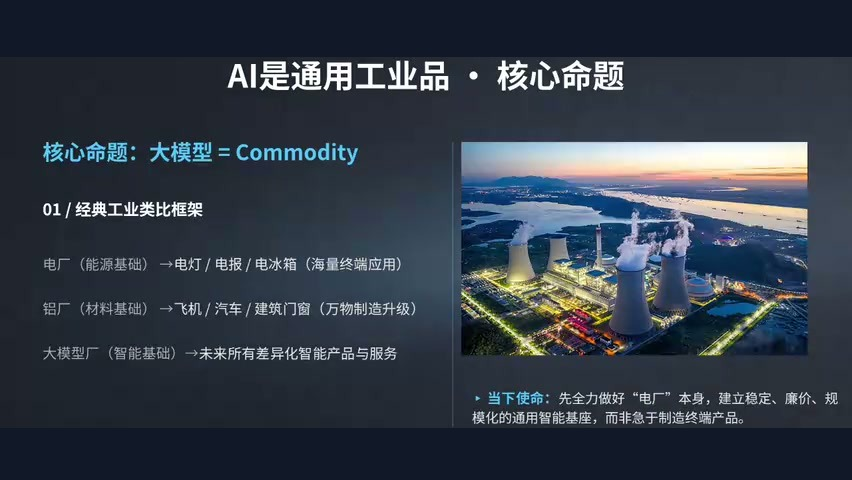
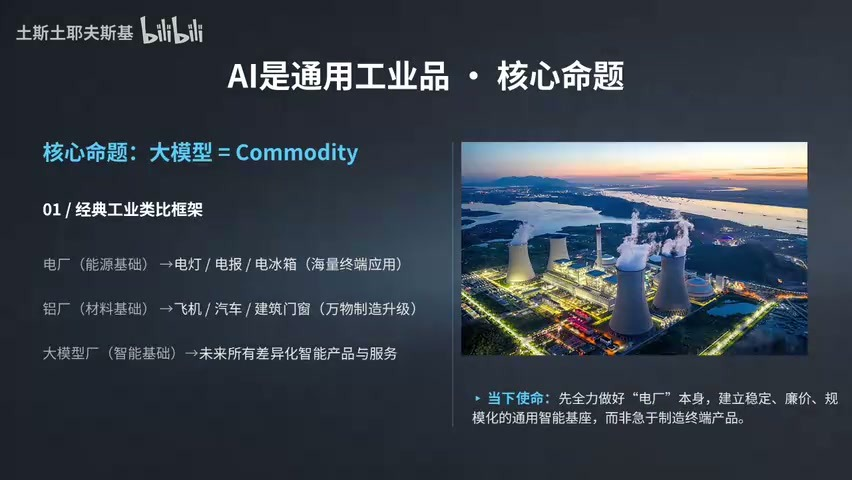
Fix AI commodity article PPT image completeness

Changed region(s): [[0.6408, 0.0, 1.0, 0.125], [0.0, 0.0312, 0.2441, 0.0938], [0.946, 0.875, 0.9765, 0.9375]]

diff --git a/2026/ai-as-commodity-deepseek-cost-efficiency-power-plant-investment/index.html b/2026/ai-as-commodity-deepseek-cost-efficiency-power-plant-investment/index.html
@@ -21,20 +21,20 @@
 <p>AI 大模型的投资框架，正在从“互联网超级应用”切换到“通用工业品”。这个判断会改变很多问题的答案：真正重要的不只是模型榜单、用户规模、产品热度，而是谁能以更低成本、更高效率、更快迭代速度，稳定生产出可被千行百业调用的智能能力。</p>
 <p>如果把 AI 尤其是基础大模型理解为 Commodity，也就是通用工业品，那么它更像电、铝、钢、算力，而不是微信、淘宝或短视频平台。电厂和铝厂不靠用户粘性垄断利润，靠的是规模、成本、效率、良率、供应链和长期工程能力。AI 大模型最终也会越来越接近这种逻辑：产品高度同质化，客户迁移成本低，品牌溢价有限，价格和质量才是企业采购时真正敏感的变量。</p>
 <p>这一点对投资尤其关键。大模型当然会改变世界，但改变世界不等于产业链上的每一个环节都能获得超额利润。基础模型可能是 AI 时代的电厂，承担极大的资本开支、技术迭代和价格竞争；真正拥有高利润弹性的机会，反而可能出现在更上层的应用、行业重构、流程再造和智能化产品中。</p>
-<figure class="article-figure"><img src="/images/posts/ai-as-commodity-deepseek-cost-efficiency-power-plant-investment/slide-01.jpg" alt="总命题：AI=Commodity，像投资电厂一样投资 AI"><figcaption>总命题：AI=Commodity，像投资电厂一样投资 AI</figcaption></figure>
+<figure class="article-figure"><img src="/images/posts/ai-as-commodity-deepseek-cost-efficiency-power-plant-investment/slide-01.jpg?v=20260725-full" alt="总命题：AI=Commodity，像投资电厂一样投资 AI"><figcaption>总命题：AI=Commodity，像投资电厂一样投资 AI</figcaption></figure>
 
 <h2 id="agi-route">AGI 路线：不是神话，而是生产力闭环</h2>
 <p>理解 AI 的工业品属性，必须先重新理解 AGI。AGI 不需要被想象成全知全能、像神一样的存在。更务实的定义是：AI 能够形成从感知、认知到执行的完整闭环，既能在数字世界里处理信息，也能通过工具、系统、机器人或实体设备进入物理世界，持续完成任务、积累经验并改进自身。</p>
 <p>沿着这条路线，AI 的演进并不是一步到位，而是分阶段推进。第一步是思维链能力，让模型具备更强的推理过程；第二步是 Agentic 行动能力，让 AI 不只是回答问题，而是能够调用工具、执行步骤、完成任务；第三步是持续学习和经验积累，让系统不只依赖一次性训练，而能从反馈中沉淀能力；第四步是 AI 加速 AI 研发，通过自动化代码、实验、架构搜索和调参提升迭代速度；最终才是具身智能，让 AI 进入真实世界，拥有稳定执行能力。</p>
 <p>这个路线图的重点不在于“万能智能”的宏大叙事，而在于生产力能否自闭环。只要 AI 能够独立完成感知、思考、规划、执行、反馈和再学习，它就已经具备非常强的工业价值。企业真正购买的不是“智能的神秘感”，而是可度量、可复制、可接入业务流程的生产能力。</p>
-<figure class="article-figure"><img src="/images/posts/ai-as-commodity-deepseek-cost-efficiency-power-plant-investment/slide-03.jpg" alt="AGI 演进路线：从思维链、Agentic 到持续学习和具身智能"><figcaption>AGI 演进路线：从思维链、Agentic 到持续学习和具身智能</figcaption></figure>
+<figure class="article-figure"><img src="/images/posts/ai-as-commodity-deepseek-cost-efficiency-power-plant-investment/slide-03.jpg?v=20260725-full" alt="AGI 演进路线：从思维链、Agentic 到持续学习和具身智能"><figcaption>AGI 演进路线：从思维链、Agentic 到持续学习和具身智能</figcaption></figure>
 
 <h2 id="commodity-definition">大模型为什么是通用工业品</h2>
 <p>通用工业品有几个典型特征：高度标准化、可批量复制、质量可以比较、价格高度敏感、品牌溢价有限、客户转换成本低。AI 大模型正在越来越符合这些特征。</p>
 <p>以铝为例，中国铝业、俄铝、美国铝业生产的铝，本质上不会因为品牌不同就变成完全不同的东西。客户关心的是成分、质量、交付、价格和适配场景，而不是过去用了谁家的铝。电也一样，用户不会因为某家电厂的品牌故事而支付持续高溢价，只要质量稳定、价格更低、供给可靠，采购逻辑就会非常直接。</p>
 <p>AI Token 也在走向类似状态。企业客户调用模型，不是为了表达品牌忠诚，而是为了完成客服、代码、检索、办公、设计、数据分析、研发辅助、销售支持等实际任务。如果两个模型在某个场景里能力接近，一个成本只有另一个的一半，迁移成本又不高，那么理性客户很可能迅速转向更低成本的方案。</p>
 <p>这与移动互联网时代完全不同。微信、淘宝这类平台积累的是用户关系、社交网络、交易习惯和生态闭环，一旦形成强网络效应，新进入者很难替代。但大模型 API 的客户关系更弱，用户粘性更低，模型能力更容易被横向比较，价格也更容易透明化。只要底层能力差距收敛，成本就会成为决定性变量。</p>
-<figure class="article-figure"><img src="/images/posts/ai-as-commodity-deepseek-cost-efficiency-power-plant-investment/slide-05.jpg" alt="核心命题：大模型正在成为可批量复制的通用工业品"><figcaption>核心命题：大模型正在成为可批量复制的通用工业品</figcaption></figure>
+<figure class="article-figure"><img src="/images/posts/ai-as-commodity-deepseek-cost-efficiency-power-plant-investment/slide-05.jpg?v=20260725-full" alt="核心命题：大模型正在成为可批量复制的通用工业品"><figcaption>核心命题：大模型正在成为可批量复制的通用工业品</figcaption></figure>
 
 <h2 id="internet-vs-industrial">不能再用互联网超级 App 逻辑看基础模型</h2>
 <p>很多 AI 投资讨论仍沿用上一代互联网叙事：先抢用户，再做生态，最后形成赢家通吃。这套逻辑在移动互联网时代成立，因为平台控制了入口、关系链、交易场景和用户习惯。但基础大模型不是天然的超级 App，它更像一种基础生产要素。</p>
@@ -44,18 +44,18 @@
 
 <h2 id="competition-logic">竞争逻辑：成本第一，时间第二，体验第三</h2>
 <p>通用工业品市场的竞争排序非常残酷：成本第一，时间第二，用户体验第三。体验当然重要，但当能力达到可用区间后，企业采购会迅速回到质量与价格的比较。基础模型如果要长期存在，必须先解决成本和效率，再谈体验和包装。</p>
-<figure class="article-figure"><img src="/images/posts/ai-as-commodity-deepseek-cost-efficiency-power-plant-investment/slide-06.jpg" alt="通用工业品竞争逻辑：成本、效率和市场共同决定长期位置"><figcaption>通用工业品竞争逻辑：成本、效率和市场共同决定长期位置</figcaption></figure>
+<figure class="article-figure"><img src="/images/posts/ai-as-commodity-deepseek-cost-efficiency-power-plant-investment/slide-06.jpg?v=20260725-full" alt="通用工业品竞争逻辑：成本、效率和市场共同决定长期位置"><figcaption>通用工业品竞争逻辑：成本、效率和市场共同决定长期位置</figcaption></figure>
 <p>成本第一，意味着最低成本架构才是真正的护城河。巴菲特谈通用商品时反复强调，行业最低成本生产者往往最有防御力，因为它可以在价格战中活下来，也可以在景气上行时获得更高利润。大模型行业同样如此：当 Token 价格持续下行，只有训练成本、推理成本、部署成本和硬件利用率领先的企业，才可能在长期竞争中保有合理利润。</p>
 <p>时间第二，意味着迭代速度本身就是竞争力。AI 模型的能力边界仍在快速变化，领先几个月就可能获得窗口优势。训练效率高、实验周期短、工程反馈快、组织决策轻，都会转化成真实的市场位置。</p>
 <p>体验第三，并不是说用户体验不重要，而是它不是基础模型的第一性问题。对于电厂和铝厂来说，销售、客户服务、品牌包装通常不会决定胜负；对于基础模型而言，只要 API 稳定、文档清晰、兼容性足够、价格和能力有优势，客户自然会来。几个人维护 API 的轻运营思路，本质上正是通用工业品思维。</p>
-<figure class="article-figure"><img src="/images/posts/ai-as-commodity-deepseek-cost-efficiency-power-plant-investment/slide-07.jpg" alt="竞争逻辑：成本第一、时间效率第二、用户体验第三"><figcaption>竞争逻辑：成本第一、时间效率第二、用户体验第三</figcaption></figure>
+<figure class="article-figure"><img src="/images/posts/ai-as-commodity-deepseek-cost-efficiency-power-plant-investment/slide-07.jpg?v=20260725-full" alt="竞争逻辑：成本第一、时间效率第二、用户体验第三"><figcaption>竞争逻辑：成本第一、时间效率第二、用户体验第三</figcaption></figure>
 
 <h2 id="market-structure">市场会集中，但很难被垄断</h2>
 <p>AI 大模型市场存在一个有意思的矛盾：一方面，它天然会走向集中；另一方面，它又很难形成绝对垄断。</p>
 <p>集中来自规模效应。训练规模越大、数据越丰富、算力调度越成熟、工程体系越完整，单位成本越低，迭代速度越快，越有能力继续扩大规模。Scaling Law 尚未走到终点，规模仍然能推动能力边界上移。这个正反馈会让行业不需要太多玩家，长期只会留下少数大公司和少数特色玩家。</p>
 <p>但难以垄断来自同质化和低迁移成本。铝就是铝，电就是电，企业不会因为“历史关系”长期购买明显更贵的铝或电。模型能力如果被持续追平，价格差异又足够大，客户就会迁移。基础模型没有天然强社交关系链，也没有像消费品那样稳固的品牌溢价，最终会持续回到成本、效率、质量的竞争。</p>
 <p>所以，AI 大模型的终局更可能是少数大玩家长期厮杀，而不是一家企业永久收割整个行业利润。美国可能由几家头部模型公司竞争，中国也可能留下两三家大型企业和少数小型特色团队。这个市场很大，但利润率未必会像互联网平台一样长期高企。</p>
-<figure class="article-figure"><img src="/images/posts/ai-as-commodity-deepseek-cost-efficiency-power-plant-investment/slide-08.jpg" alt="格局判断：市场集中，但很难被单一企业垄断"><figcaption>格局判断：市场集中，但很难被单一企业垄断</figcaption></figure>
+<figure class="article-figure"><img src="/images/posts/ai-as-commodity-deepseek-cost-efficiency-power-plant-investment/slide-08.jpg?v=20260725-full" alt="格局判断：市场集中，但很难被单一企业垄断"><figcaption>格局判断：市场集中，但很难被单一企业垄断</figcaption></figure>
 
 <h2 id="deepseek-strategy">DeepSeek 的战略：成本优先、生产力优先、以人为本</h2>
 <p>把上述框架落到企业战略上，可以归纳为三条主线：成本优先、生产力优先、以人为本。</p>

diff --git a/tasks/publish-ai-commodity-deepseek-ppt-article-20260725.py b/tasks/publish-ai-commodity-deepseek-ppt-article-20260725.py
@@ -31,7 +31,7 @@ TITLE = "像投资电厂一样投资 AI：大模型通用工业品化与 DeepSee
 def slide_img(name: str, caption: str) -> str:
     return (
         f'<figure class="article-figure">'
-        f'<img src="/images/posts/{SLUG}/{name}" alt="{base.esc(caption)}">'
+        f'<img src="/images/posts/{SLUG}/{name}?v=20260725-full" alt="{base.esc(caption)}">'
         f"<figcaption>{base.esc(caption)}</figcaption>"
         f"</figure>"
     )
@@ -141,10 +141,8 @@ def clean_and_copy_slides(post_slug: str) -> None:
         out = out_dir / source.name
         image = Image.open(source).convert("RGB")
         draw = ImageDraw.Draw(image)
-        # Remove source/watermark text in the top band and subtitle overlays at the bottom
-        # while preserving the PPT body.
-        draw.rectangle((0, 0, image.width, 56), fill=(17, 24, 39))
-        draw.rectangle((0, 428, image.width, image.height), fill=(17, 24, 39))
+        # Preserve the full PPT frame. Some source marks overlap actual slide
+        # titles, so any masking can make the slide appear incomplete.
         image.save(out, format="JPEG", quality=92, optimize=True)
         base.rec(out)
 
@@ -272,7 +270,7 @@ def extra_validate() -> None:
             failures.append(f"{post.slug}: missing required term {word}")
     if "source_id" in article or "BV1HBgv68E76" in article:
         failures.append(f"{post.slug}: source id leaked into article")
-    image_refs = re.findall(r'<img src="(/images/posts/[^"]+slide-\d+\.jpg)"', article)
+    image_refs = re.findall(r'<img src="(/images/posts/[^"?]+slide-\d+\.jpg)(?:\?[^"]*)?"', article)
     if len(image_refs) < 5:
         failures.append(f"{post.slug}: expected at least 5 slide images, found {len(image_refs)}")
     for ref in image_refs:
